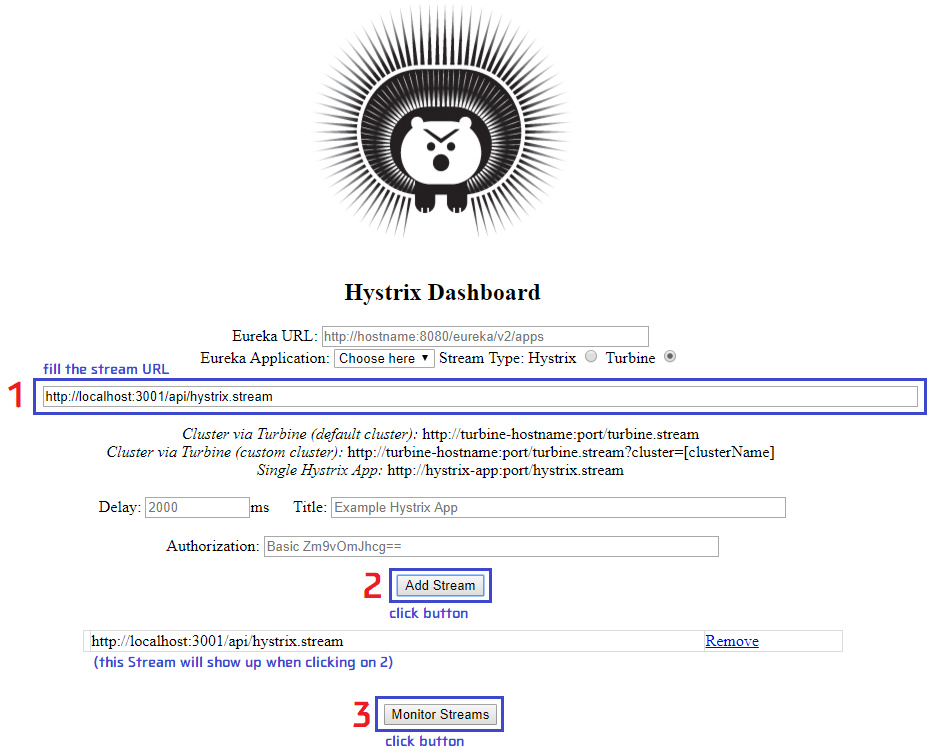
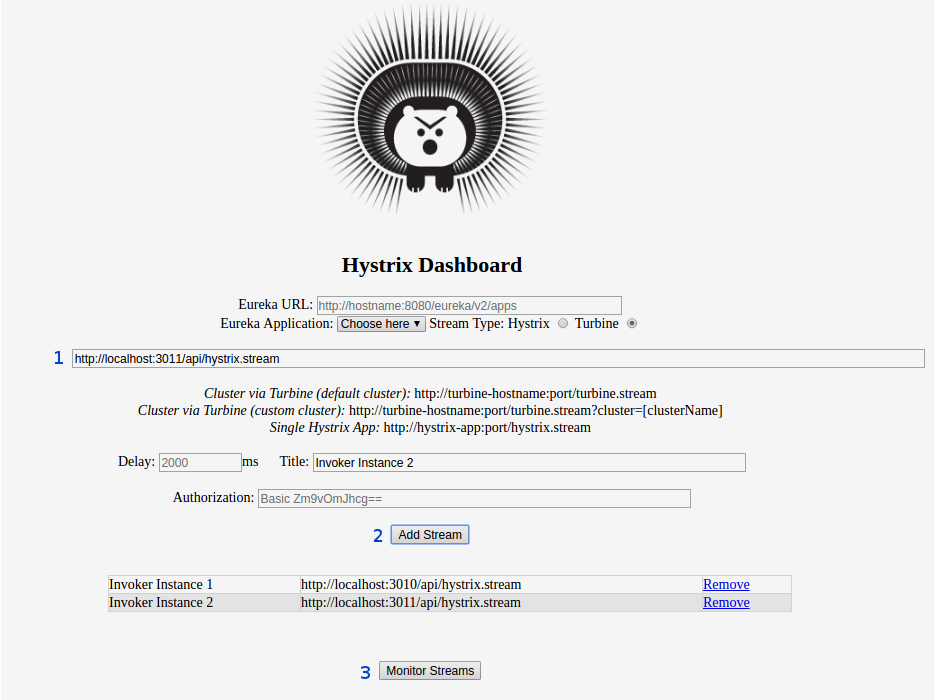
Running Multiple Invoker Instances

Changed region(s): [[0.0, 0.36, 0.9925, 0.99], [0.3412, 0.0, 0.5893, 0.3], [0.7134, 0.69, 0.7444, 0.72]]

diff --git a/src/worker/requestGenerator.js b/src/worker/requestGenerator.js
@@ -1,6 +1,6 @@
 module.exports = {
     start: (cfg) => {
-        var reqGen = new RequestGenerator(cfg.port, JSON.parse(cfg.verbose));
+        var reqGen = new RequestGenerator(JSON.parse(cfg.ports), JSON.parse(cfg.verbose));
         process.on('message', function(msg) {
             if (msg == 'start') {
                 reqGen.start();
@@ -11,27 +11,25 @@ module.exports = {
 
 const request = require('request');
 
-function RequestGenerator (port, verbose) {
+function RequestGenerator (ports, verbose) {
     function doRequest(ctx) {
-        if (!ctx) {
-            ctx = {'nRequest': 0};
-        }
-        let url = `http://localhost:${port}/getDateAndCountFromAPI`;
+        let url = `http://localhost:${ctx.port}/getDateAndCountFromAPI`;
         if (verbose) console.log(`[${process.pid}] RequestGenerator: Requesting... ${url}`)
         request(`${url}`, function(error, response, body) {
             if (error) {
                 console.log("[USER] Got error: ", error);
             }
         });
-        ctx = {'nRequest': ctx.nRequest + 1};
         setTimeout(() => doRequest(ctx), 1000);
     }
     
     this.start = function(options) {
-        console.log("[%d] RequestGenerator will start dispatching requests in 500ms", process.pid);
-        setTimeout(() => {
-            console.log("[%d] RequestGenerator: Started dispatching requests.", process.pid);
-            doRequest();
-        }, 500);
+        console.log(`[${process.pid}] RequestGenerator will start dispatching requests in 500ms to all InvokerServices.\n`);
+        ports.forEach(port => {
+            setTimeout(() => {
+                console.log(`[${process.pid}] RequestGenerator dispatching requests every second to http://localhost:${port}/getDateAndCountFromAPI`);
+                doRequest({port: port});
+            }, 500);
+        });
     };
 };

diff --git a/src/index.js b/src/index.js
@@ -2,8 +2,8 @@ const cluster = require('cluster'),
     minimist = require('minimist');
 
 const opts = {
-    INVOKER_SERVICES_PORT: 3001,
-    EXTERNAL_SERVICES_PORT: 3002,
+    INVOKER_SERVICES_PORTS: [3010, 3011],
+    EXTERNAL_SERVICES_PORT: 3020,
     STATS_IO_PORT: 3005,
     STATS_WEBUI_PORT: 3000,
     GLOBALAGENT_MAXSOCKETS: 1000
@@ -22,10 +22,12 @@ const verbose = (argv.L || argv.l) ? true : false;
 if (cluster.isMaster) {
 
     if (verbose) {
-        console.log('"-L" LOG mode on\n')
+        console.log('"-L" LOG mode on.\n')
     } else {
-        console.log('Run with "npm start -- -L" to enable LOG mode\n')
+        console.log('Run with "npm start -- -L" to enable LOG mode.\n')
     }
+    console.log('You can plug the Hystrix Dashboard on all hystrix.streams once they\'re up.')
+    console.log('More information: [https://github.com/Netflix/Hystrix/tree/master/hystrix-dashboard]\n')
 }
 
 for (var capsK in opts) {
@@ -52,16 +54,18 @@ if (cluster.isMaster) {
         verbose: verbose
     }).send('start');
 
-    cluster.fork({
-        workerName: 'invokerServices',
-        port: parseInt(opts.INVOKER_SERVICES_PORT),
-        externalServicesPort: parseInt(opts.EXTERNAL_SERVICES_PORT),
-        verbose: verbose
-    }).send('start');
+    opts.INVOKER_SERVICES_PORTS.forEach(port => {
+        cluster.fork({
+            workerName: 'invokerServices',
+            port: parseInt(port),
+            externalServicesPort: parseInt(opts.EXTERNAL_SERVICES_PORT),
+            verbose: verbose
+        }).send('start');
+    })
 
     cluster.fork({
         workerName: 'requestGenerator',
-        port: parseInt(opts.INVOKER_SERVICES_PORT),
+        ports: JSON.stringify(opts.INVOKER_SERVICES_PORTS),
         verbose: verbose
     }).send('start');
 

diff --git a/src/worker/invokerServices.js b/src/worker/invokerServices.js
@@ -125,17 +125,14 @@ function InvokerServices (port, externalServicesPort, verbose) {
     app.get('/api/hystrix.stream', hystrixStream);
 
     this.start = function() {
-        process.title = 'invokerServices';
+        process.title = `invokerServices:${port}`;
         app.listen(port, function() {
             var start = Date.now();
-            console.log(`[${process.pid}] InvokerServices listening on ${port}. Available endpoints:
+            console.log(`[${process.pid}] InvokerServices listening on port [${port}]. Available endpoints:
 - http://localhost:${port}/getDateFromAPI
 - http://localhost:${port}/getCountFromAPI
 - http://localhost:${port}/getDateAndCountFromAPI
-- http://localhost:${port}/api/hystrix.stream
-
-You can plug hystrix-dashboard on http://localhost:${port}/api/hystrix.stream
-See: https://github.com/Netflix/Hystrix/tree/master/hystrix-dashboard
+- http://localhost:${port}/api/hystrix.stream (Hystrix Dashboard)
 `);
         });
     };

diff --git a/src/worker/externalServices.js b/src/worker/externalServices.js
@@ -33,7 +33,7 @@ function ExternalServices (port, verbose) {
         process.title = 'externalServices';
         app.listen(port, function() {
             var start = Date.now();
-            console.log(`[${process.pid}] ExternalServices listening on ${port}. Available endpoints:
+            console.log(`[${process.pid}] ExternalServices listening on port [${port}]. Available endpoints:
 - http://localhost:${port}/date
 - http://localhost:${port}/count
 `);

diff --git a/README.md b/README.md
@@ -24,23 +24,31 @@ $ npm start
 > otuka-hystrixjs-poc@0.1.0 start /home/otuka/dextra/nextel/git/otuka-hystrixjs-poc
 > node src/index.js
 
-Run with "npm start -- -L" to enable LOG mode
+Run with "npm start -- -L" to enable LOG mode.
 
-[20642] ExternalServices listening on 3002. Available endpoints:
-- http://localhost:3002/date
-- http://localhost:3002/count
+You can plug the Hystrix Dashboard on all hystrix.streams once they're up.
+More information: [https://github.com/Netflix/Hystrix/tree/master/hystrix-dashboard]
 
-[20649] RequestGenerator will start dispatching requests in 500ms
-[20648] InvokerServices listening on 3001. Available endpoints:
-- http://localhost:3001/getDateFromAPI
-- http://localhost:3001/getCountFromAPI
-- http://localhost:3001/getDateAndCountFromAPI
-- http://localhost:3001/api/hystrix.stream
+[6060] ExternalServices listening on port [3020]. Available endpoints:
+- http://localhost:3020/date
+- http://localhost:3020/count
 
-You can plug Hystrix Dashboard on http://localhost:3001/api/hystrix.stream
-See: https://github.com/Netflix/Hystrix/tree/master/hystrix-dashboard
+[6073] RequestGenerator will start dispatching requests in 500ms to all InvokerServices.
 
-[20649] RequestGenerator: Started dispatching requests.
+[6066] InvokerServices listening on port [3010]. Available endpoints:
+- http://localhost:3010/getDateFromAPI
+- http://localhost:3010/getCountFromAPI
+- http://localhost:3010/getDateAndCountFromAPI
+- http://localhost:3010/api/hystrix.stream (Hystrix Dashboard)
+
+[6072] InvokerServices listening on port [3011]. Available endpoints:
+- http://localhost:3011/getDateFromAPI
+- http://localhost:3011/getCountFromAPI
+- http://localhost:3011/getDateAndCountFromAPI
+- http://localhost:3011/api/hystrix.stream (Hystrix Dashboard)
+
+[6073] RequestGenerator dispatching requests every second to http://localhost:3010/getDateAndCountFromAPI
+[6073] RequestGenerator dispatching requests every second to http://localhost:3011/getDateAndCountFromAPI
 ```
 
 ## Integrating Hystrix Dashboard
@@ -65,5 +73,12 @@ Press any key to stop the server.
 After `Press any key to stop the server` is shown, point your browser to the displayed location (<http://localhost:7979/hystrix-dashboard>) and fill up the form accordingly:
 
 ![Image](doc/form.png?raw=true)
+Repeat for each endpoint:
+1. Type the `hystrix.stream` URL
+2. Click on "Add Stream"
+
+Then after both endpoints show up, click on 3. Monitor Streams.
+
+The following dashboard will be shown:
 
 ![Image](doc/result.png?raw=true)
